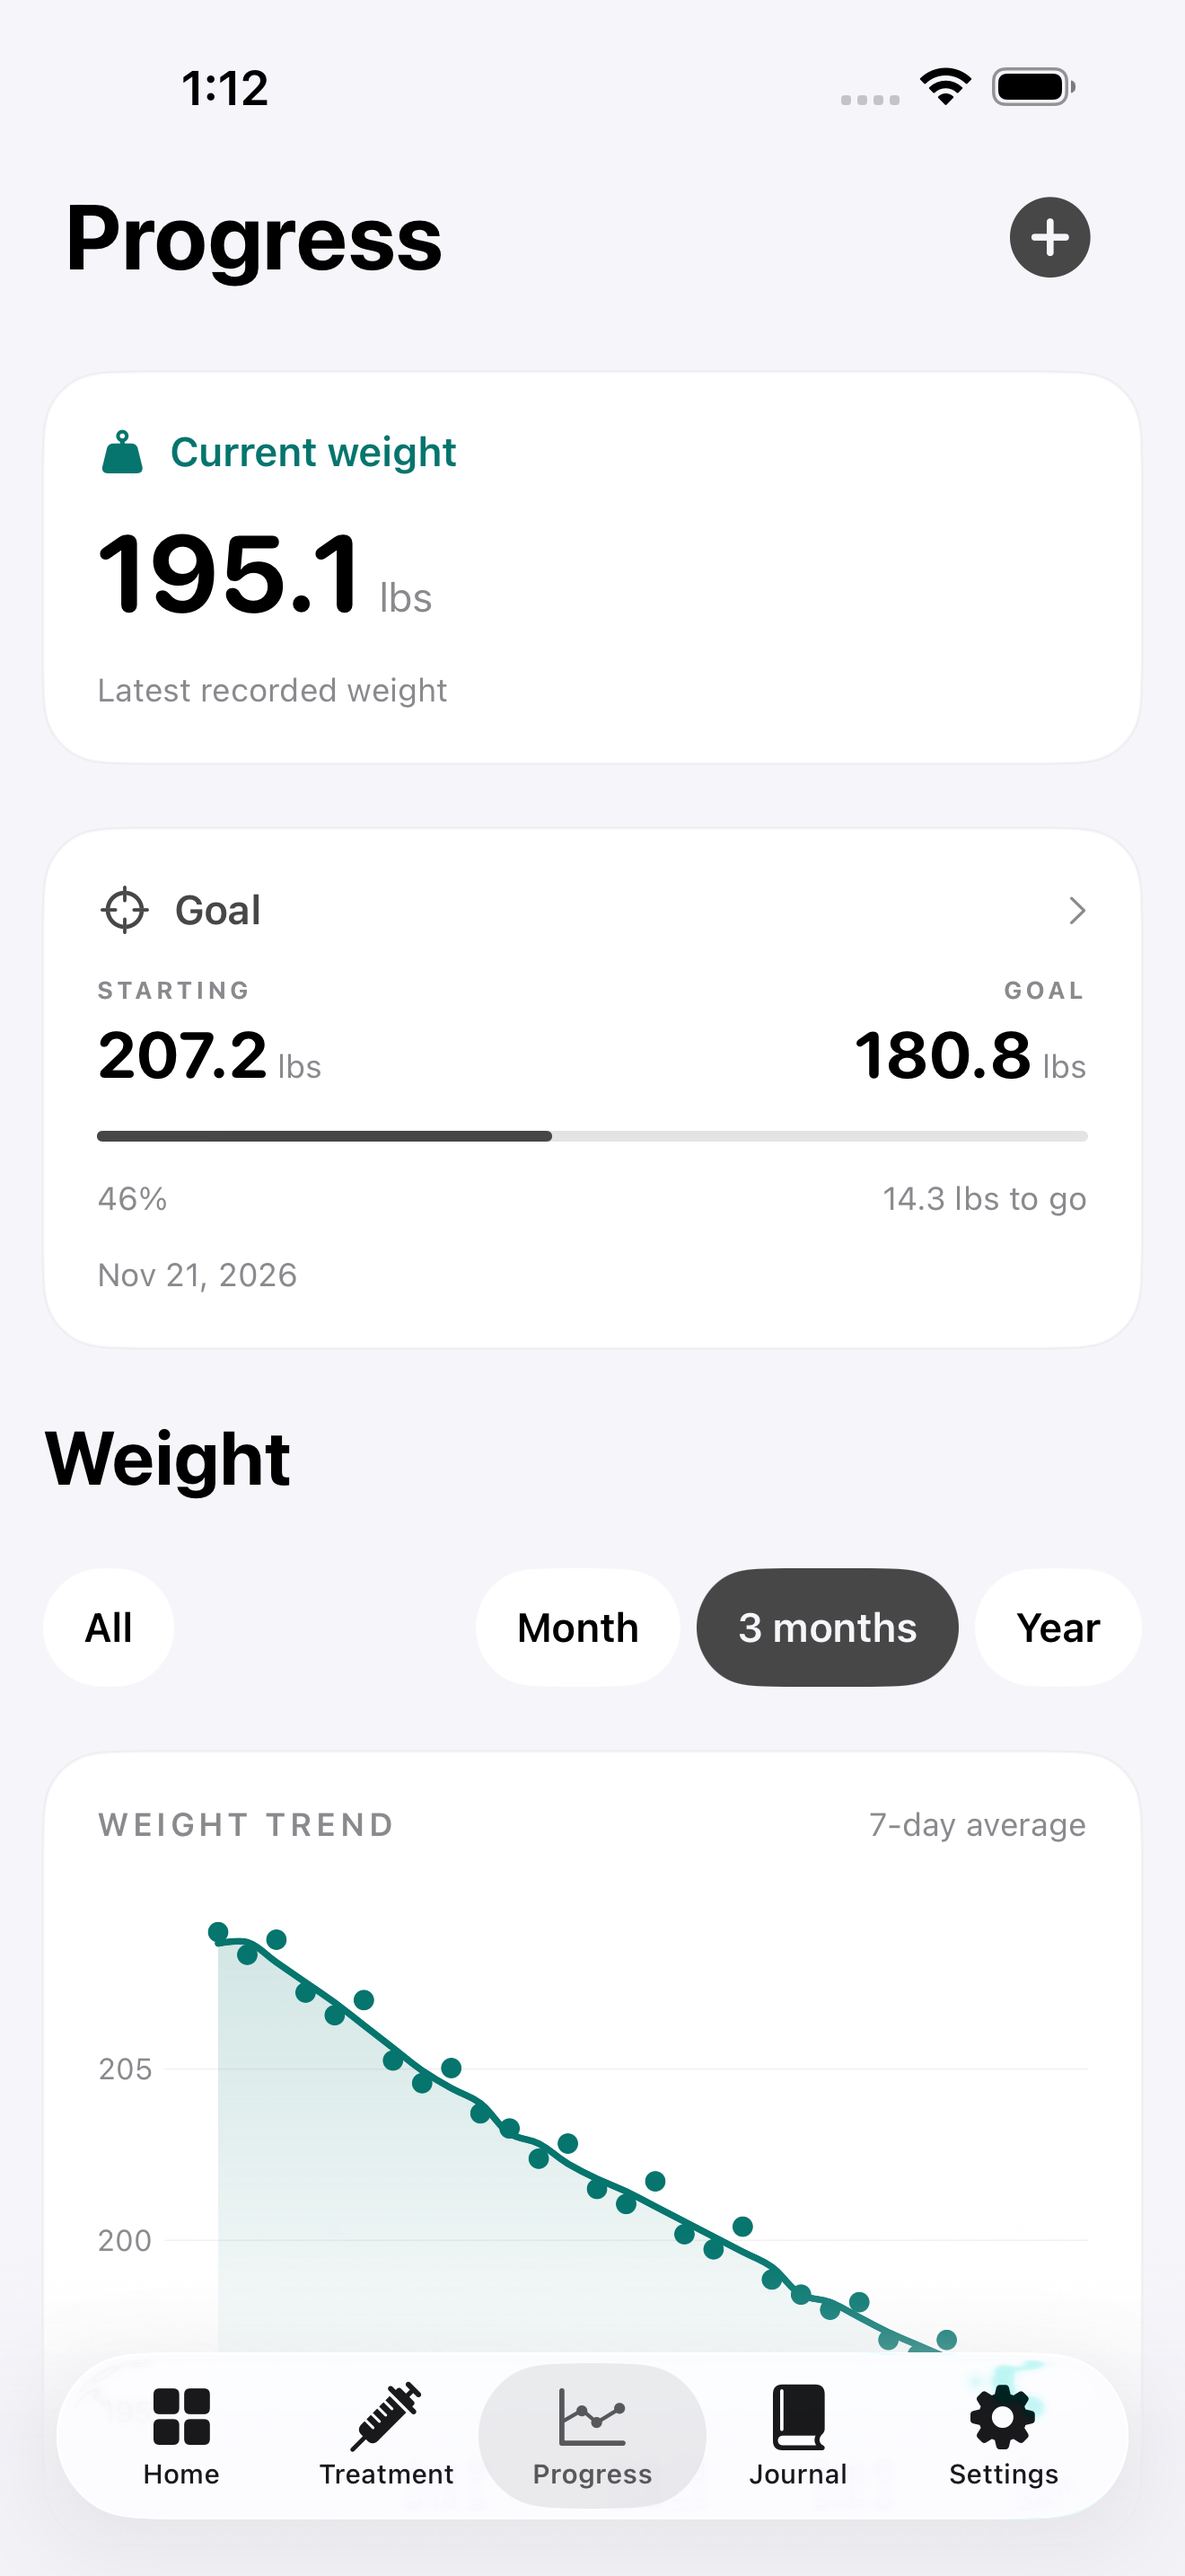
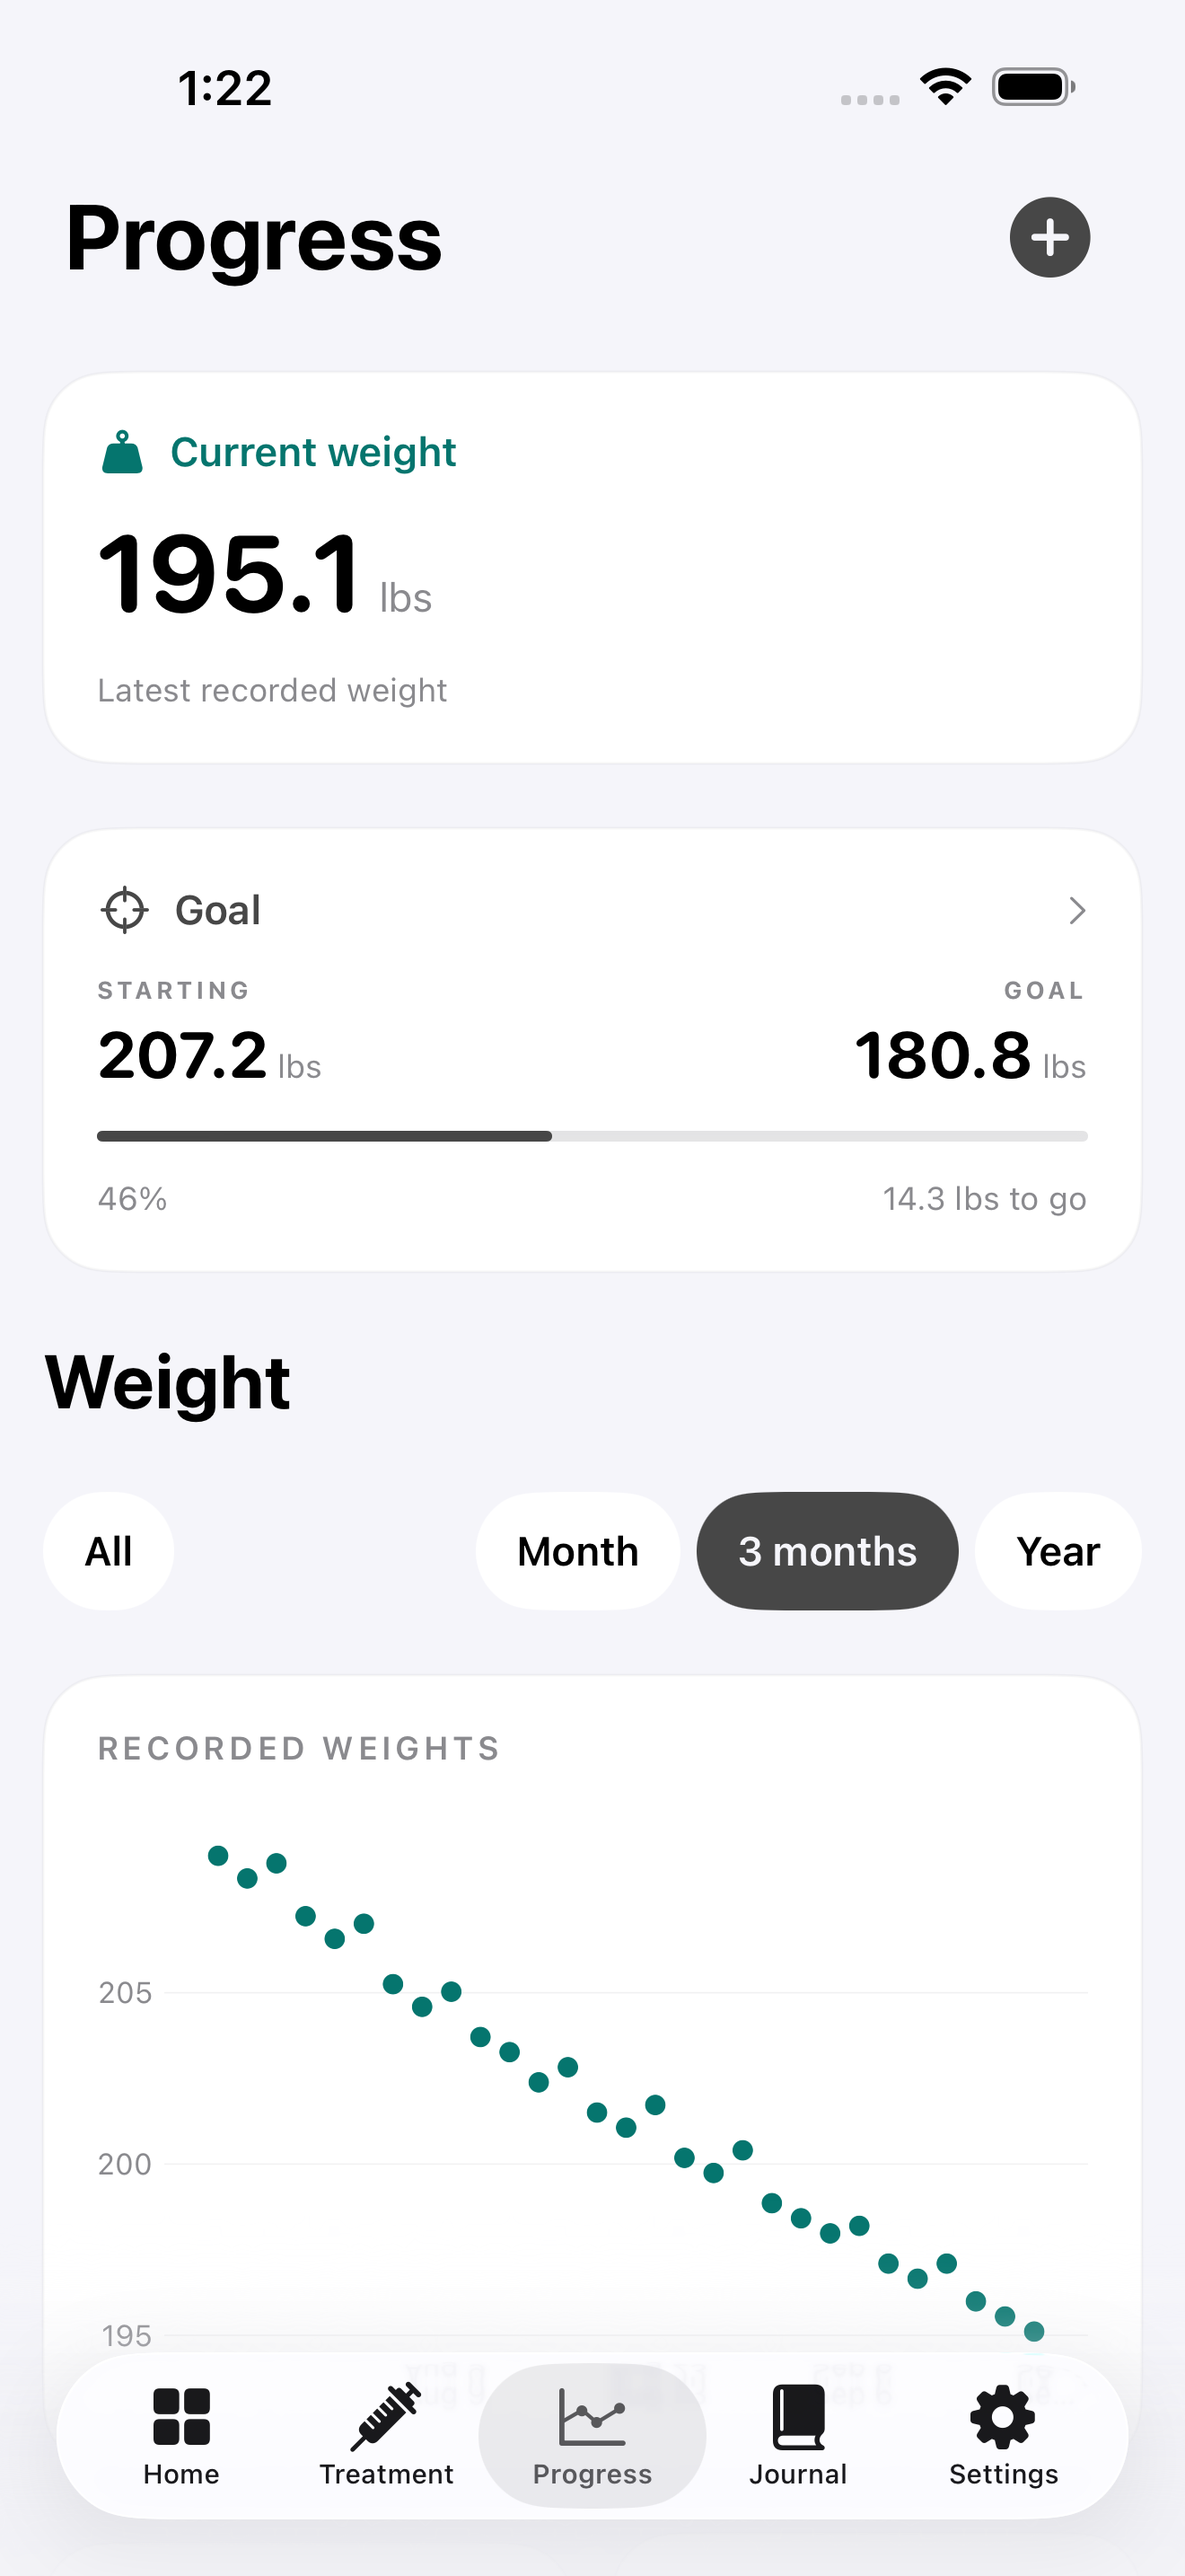
Show recorded weight points and simplify goal card

diff --git a/Still/Features/Home/RootView.swift b/Still/Features/Home/RootView.swift
@@ -154,10 +154,12 @@ struct WeightChart: View {
     }
     var body: some View {
         Chart {
-            ForEach(trend) { entry in
-                AreaMark(x: .value("Date", entry.date), yStart: .value("Base", bounds.lowerBound), yEnd: .value("Weight", unit.display(entry.kilograms)))
-                    .foregroundStyle(LinearGradient(colors: [Theme.aqua.opacity(0.18), Theme.aqua.opacity(0.01)], startPoint: .top, endPoint: .bottom)).interpolationMethod(.catmullRom)
-                LineMark(x: .value("Date", entry.date), y: .value("Weight", unit.display(entry.kilograms))).foregroundStyle(Theme.aqua).lineStyle(StrokeStyle(lineWidth: 2.5, lineCap: .round, lineJoin: .round)).interpolationMethod(.catmullRom)
+            if compact {
+                ForEach(trend) { entry in
+                    AreaMark(x: .value("Date", entry.date), yStart: .value("Base", bounds.lowerBound), yEnd: .value("Weight", unit.display(entry.kilograms)))
+                        .foregroundStyle(LinearGradient(colors: [Theme.aqua.opacity(0.18), Theme.aqua.opacity(0.01)], startPoint: .top, endPoint: .bottom)).interpolationMethod(.catmullRom)
+                    LineMark(x: .value("Date", entry.date), y: .value("Weight", unit.display(entry.kilograms))).foregroundStyle(Theme.aqua).lineStyle(StrokeStyle(lineWidth: 2.5, lineCap: .round, lineJoin: .round)).interpolationMethod(.catmullRom)
+                }
             }
             ForEach(sorted) { entry in
                 PointMark(x: .value("Date", entry.date), y: .value("Weight", unit.display(entry.kilograms))).foregroundStyle(Theme.aqua).symbolSize(compact ? 16 : 45)
@@ -169,7 +171,7 @@ struct WeightChart: View {
             .chartXScale(range: .plotDimension(padding: compact ? 4 : 20))
             .chartXAxis { if !compact { AxisMarks(values: .automatic(desiredCount: 4)) { _ in AxisValueLabel(format: .dateTime.month(.abbreviated).day()) } } }
             .chartYAxis { if !compact { AxisMarks(position: .leading, values: .automatic(desiredCount: 4)) { _ in AxisGridLine().foregroundStyle(.gray.opacity(0.12)); AxisValueLabel() } } }
-            .accessibilityLabel("Weight history in \(unit.symbol): seven-day trend and recorded weigh-ins")
+            .accessibilityLabel(compact ? "Weight history in \(unit.symbol): seven-day trend and recorded weigh-ins" : "Recorded weigh-ins in \(unit.symbol)")
     }
 }
 
@@ -208,14 +210,10 @@ struct ProgressViewScreen: View {
                         FilterBar(selection: $range, options: [(30, "Month"), (90, "3 months"), (365, "Year")])
                     }
                     VStack(alignment: .leading, spacing: 20) {
-                        HStack(alignment: .firstTextBaseline) {
-                            Text("WEIGHT TREND").font(.caption.bold()).tracking(1.5).foregroundStyle(.secondary)
-                            Spacer()
-                            Text("7-day average").font(.caption).foregroundStyle(.secondary)
-                        }
+                        Text("RECORDED WEIGHTS").font(.caption.bold()).tracking(1.5).foregroundStyle(.secondary)
                         if summary.latest != nil {
                             WeightChart(entries: entries, unit: store.journal.unit).frame(height: 220)
-                        } else { ContentUnavailableView("Your story starts here", systemImage: "chart.xyaxis.line", description: Text("Add a weight entry to see your trend.")) }
+                        } else { ContentUnavailableView("Your story starts here", systemImage: "chart.xyaxis.line", description: Text("Add a weight entry to see your history.")) }
                     }.card()
                     HStack(spacing: 14) {
                         metric(title: (summary.lost ?? 0) >= 0 ? "Weight lost" : "Weight gained", value: summary.lost.map { number(store.journal.unit.display(abs($0))) }, foot: store.journal.unit.symbol, icon: "arrow.down.right")

diff --git a/StillUITests/StillUITests.swift b/StillUITests/StillUITests.swift
@@ -278,6 +278,9 @@ final class StillUITests: XCTestCase {
         XCTAssertTrue(currentWeight.waitForExistence(timeout: 5))
         XCTAssertTrue(app.staticTexts["Latest recorded weight"].exists)
         XCTAssertTrue(app.staticTexts["195.1"].exists)
+        XCTAssertTrue(app.staticTexts["RECORDED WEIGHTS"].exists)
+        let goalDate = Calendar.current.date(byAdding: .day, value: 60, to: Calendar.current.startOfDay(for: Date()))!
+        XCTAssertFalse(app.staticTexts[goalDate.formatted(.dateTime.month(.abbreviated).day().year())].exists)
         Thread.sleep(forTimeInterval: 1)
         capture("Weight Progress Top")
         let addWeight = app.buttons["Log weight"]

diff --git a/Still/Features/Progress/GoalView.swift b/Still/Features/Progress/GoalView.swift
@@ -26,7 +26,6 @@ struct GoalCard: View {
                     } else {
                         goalValue("GOAL", kilograms: goal.kilograms, alignment: .leading)
                     }
-                    if let date = goal.date { Text(date, format: .dateTime.month(.abbreviated).day().year()).font(.caption).foregroundStyle(.secondary) }
                 } else { Text("Set a weight goal").font(.headline) }
             }.card()
         }.buttonStyle(.plain).sheet(isPresented: $editing) { GoalEditor() }
